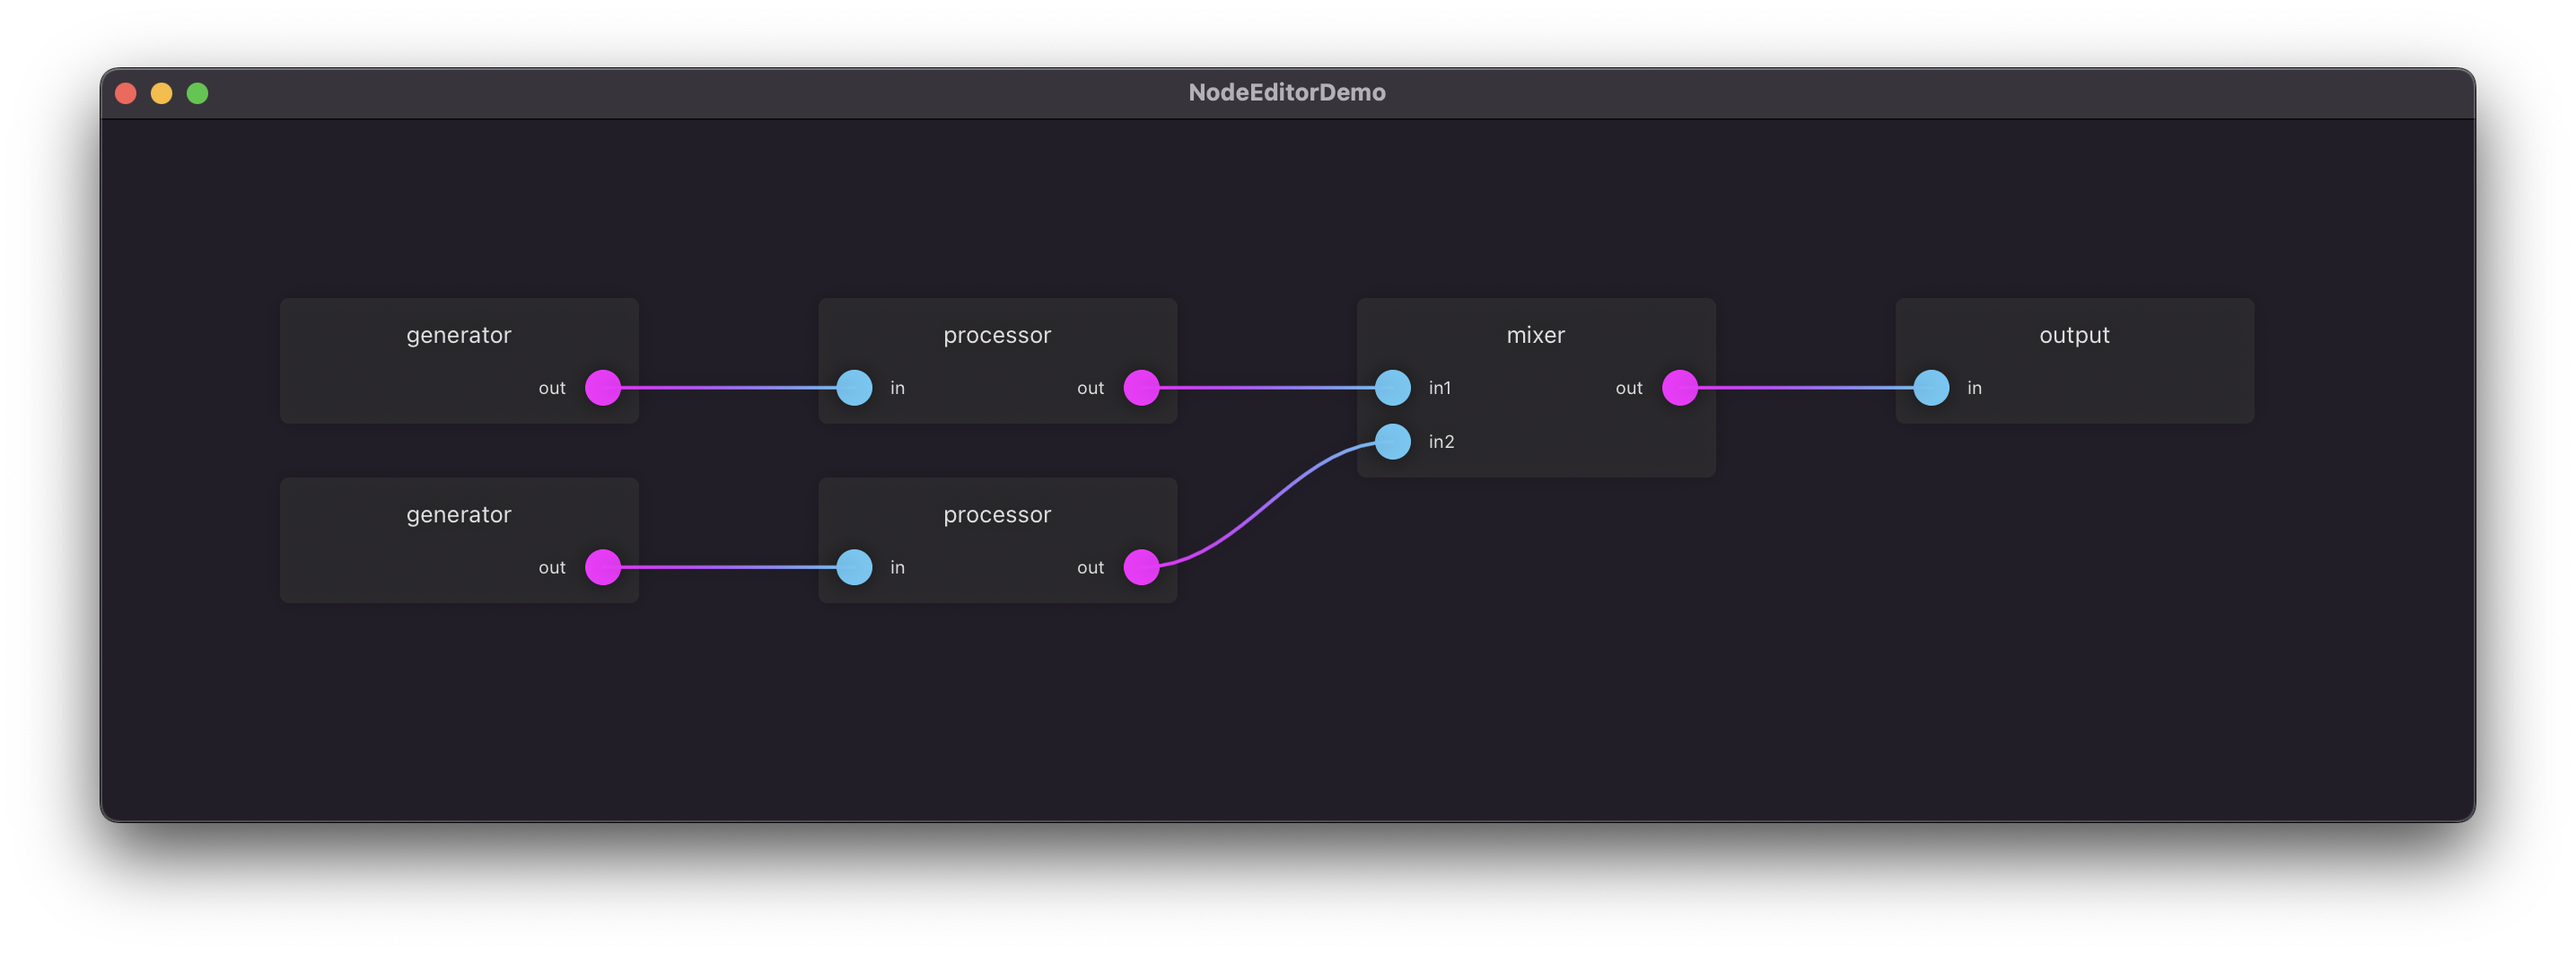
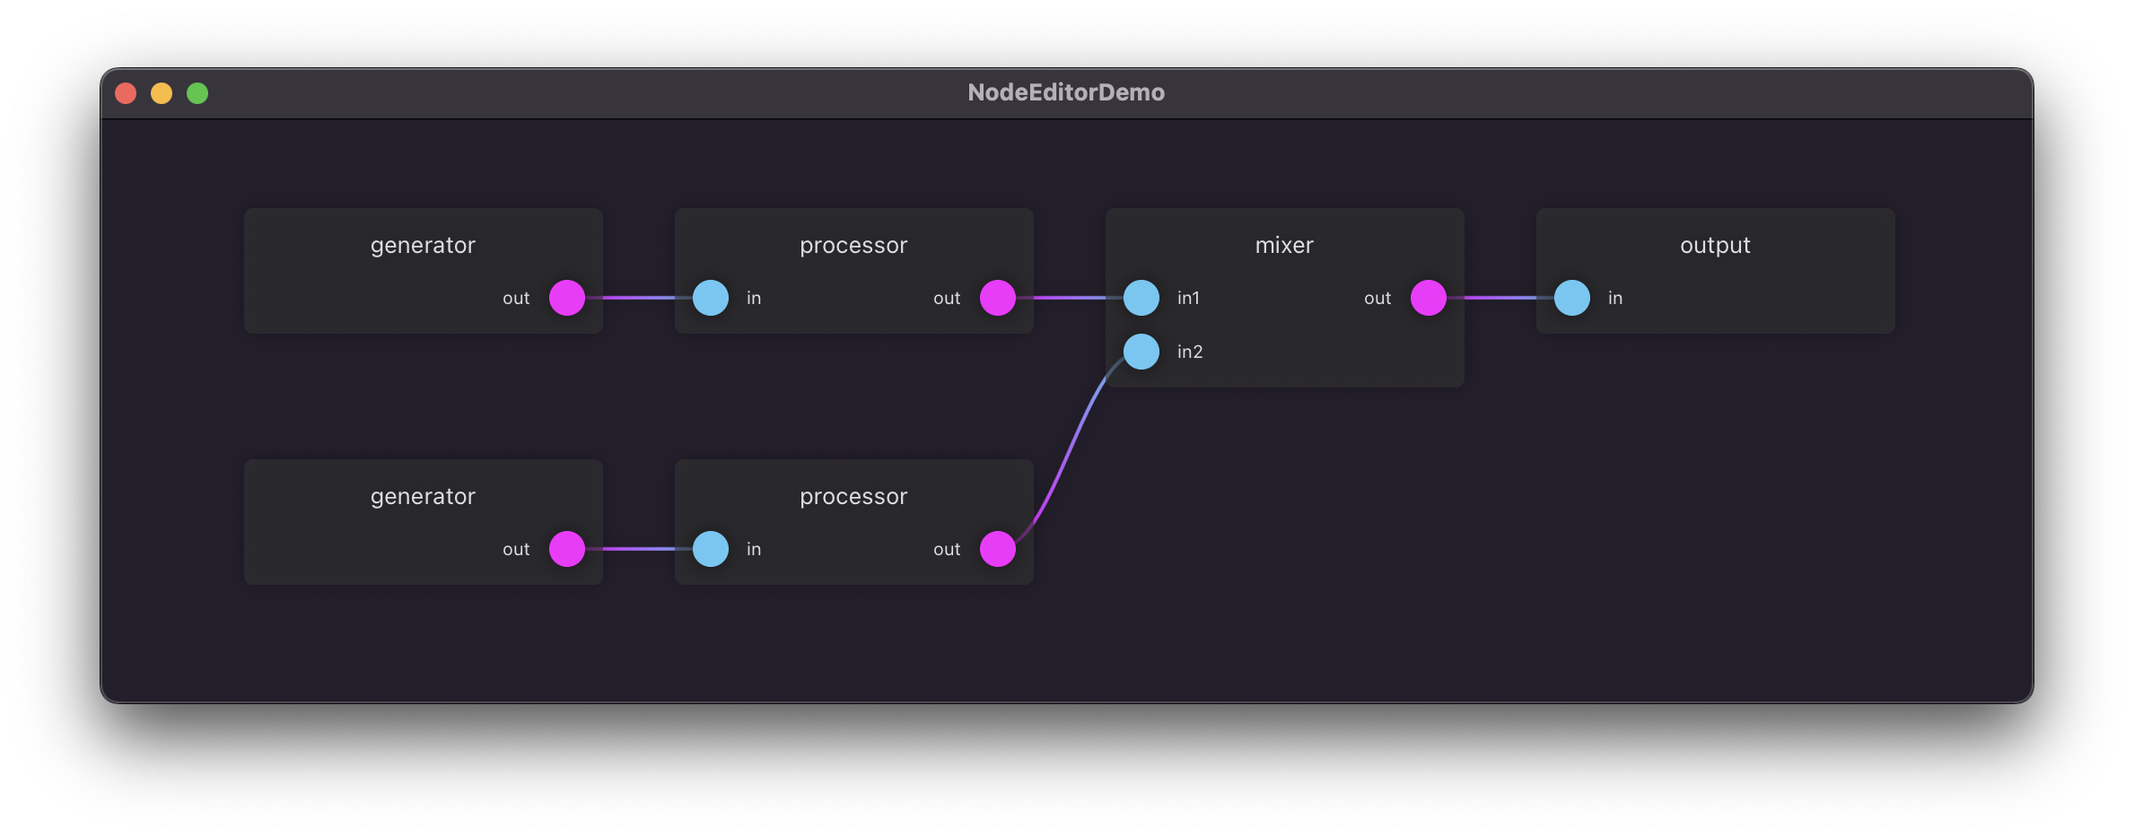
update screenshot

diff --git a/Demo/Shared/ContentView.swift b/Demo/Shared/ContentView.swift
@@ -17,7 +17,7 @@ func simplePatch() -> Patch {
                      Wire(from: OutputID(4, 0), to: InputID(5, 0))])
 
     var patch = Patch(nodes: nodes, wires: wires)
-    patch.recursiveLayout(nodeIndex: 5, point: CGPoint(x: 1000, y: 100))
+    patch.recursiveLayout(nodeIndex: 5, point: CGPoint(x: 800, y: 50))
     return patch
 
 }

diff --git a/README.md b/README.md
@@ -18,5 +18,5 @@ Generic node graph editor
                      Wire(from: OutputID(4, 0), to: InputID(5, 0))])
 
     var patch = Patch(nodes: nodes, wires: wires)
-    patch.recursiveLayout(nodeIndex: 5, point: CGPoint(x: 1000, y: 100))
+    patch.recursiveLayout(nodeIndex: 5, point: CGPoint(x: 800, y: 50))
 ```
